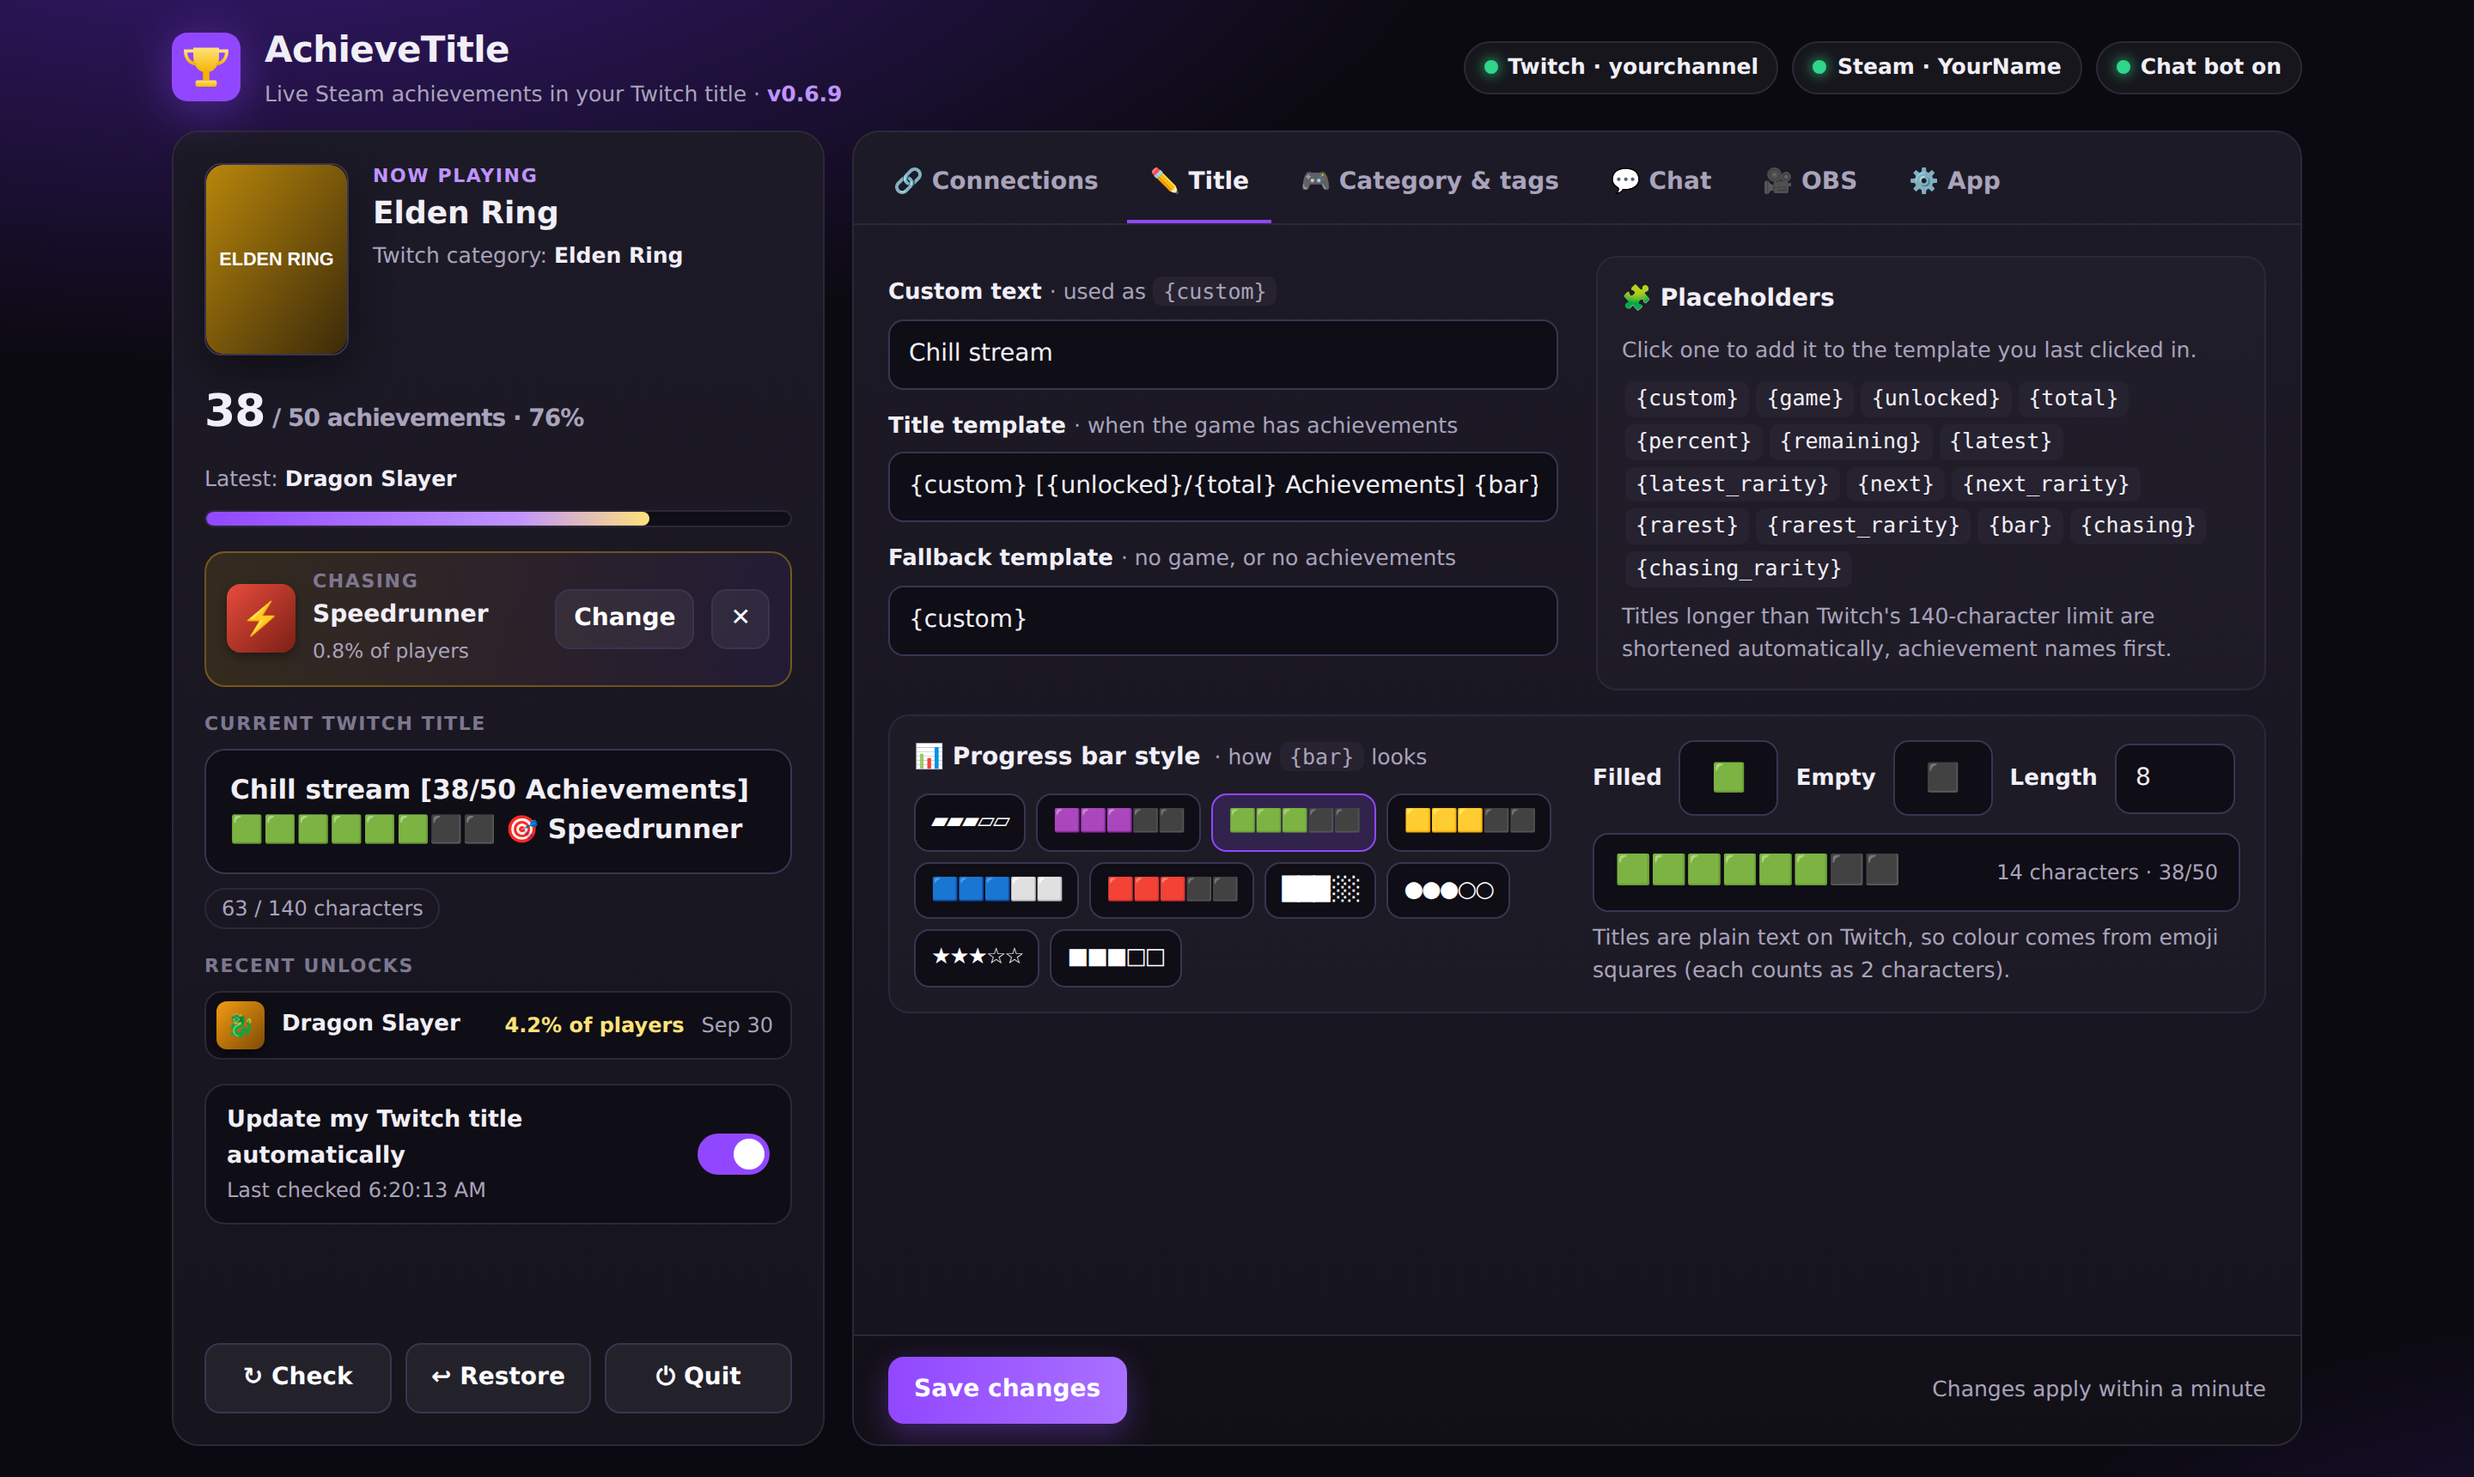
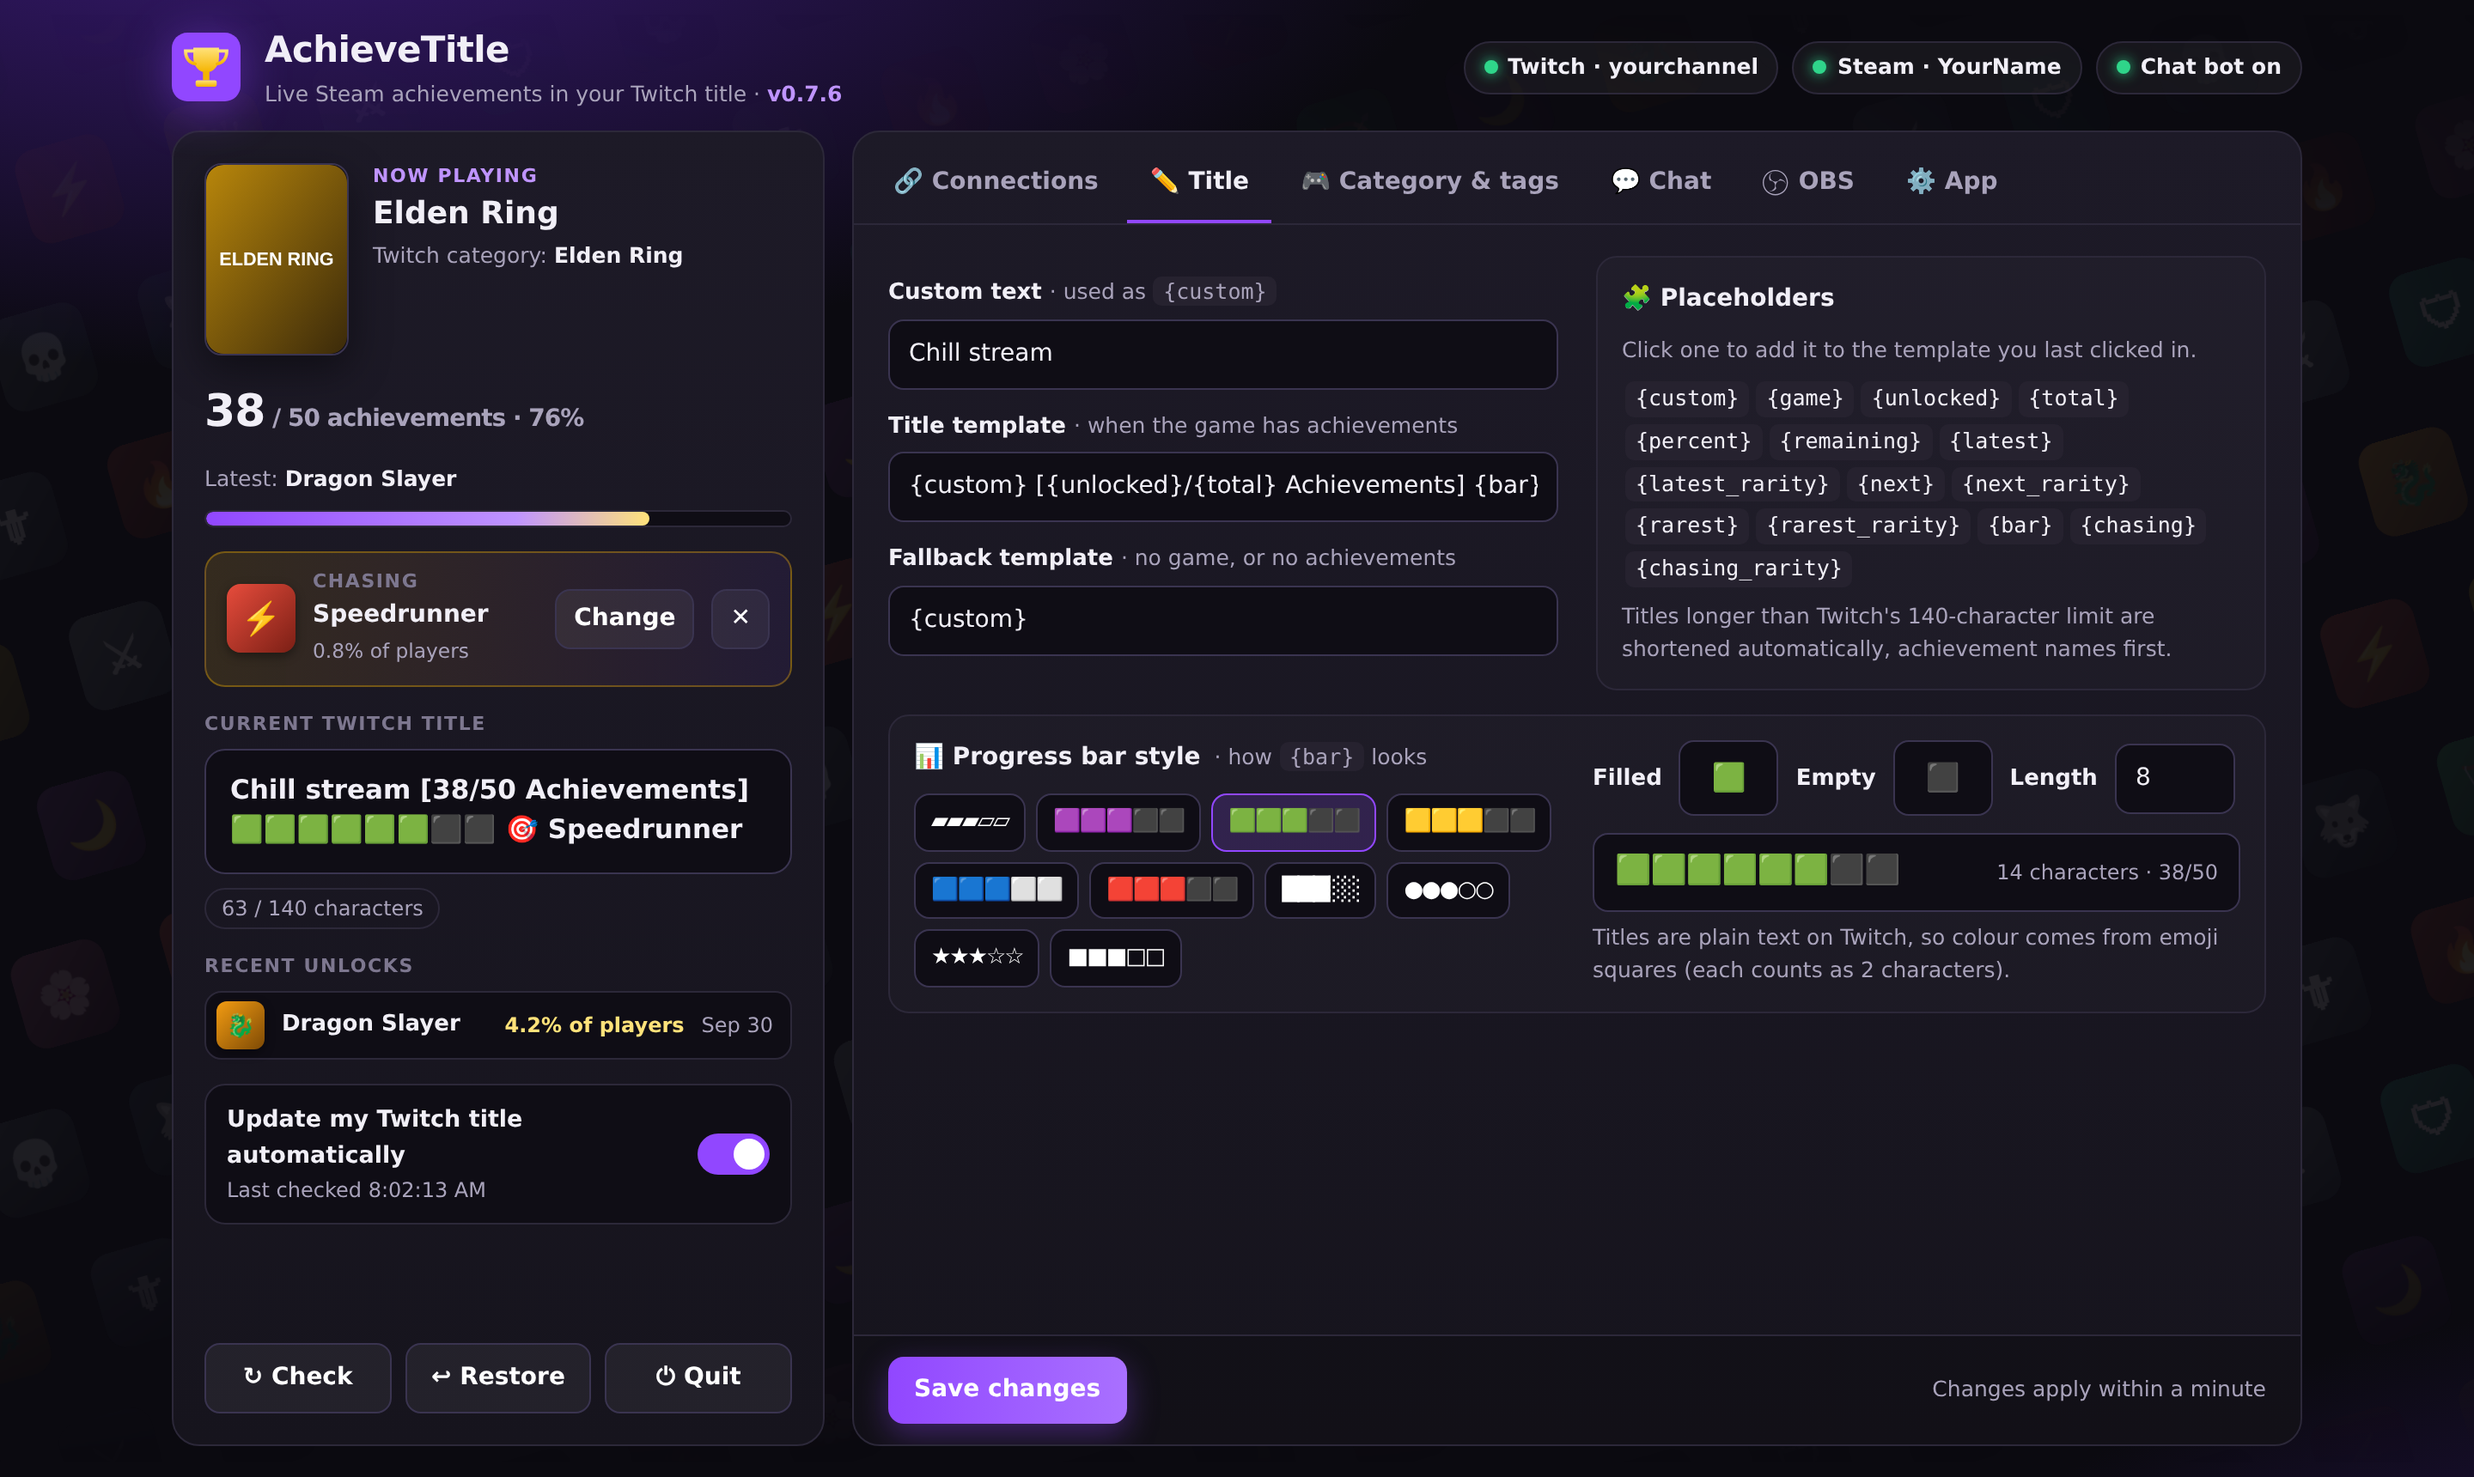
Slower drift, background choice (moving/still/plain), refreshed README screenshots
Claude-Session: https://claude.ai/code/session_018t4shc98Tgre35A8tVfDpp

diff --git a/web/index.html b/web/index.html
@@ -33,6 +33,7 @@
                    font-size:30px; background:rgba(255,255,255,.08); filter:grayscale(.2) }
   @keyframes drift { to { transform:translateX(-50%) } }
   @media (prefers-reduced-motion: reduce) { .drift-row { animation:none } }
+  body.bg-still .drift-row { animation:none } body.bg-off .drift { display:none }
   .app { position:relative; z-index:1 }
   .tab-ico { width:1.05em; height:1.05em; vertical-align:-.15em }
   .app { height:100vh; display:flex; flex-direction:column; max-width:1280px; margin:0 auto; padding:14px 20px 18px; gap:12px }
@@ -525,6 +526,12 @@
               <input type="number" id="interval_seconds" min="30" step="10">
               <label class="check"><input type="checkbox" id="restore_on_exit"> Restore my original title, category and tags when I stop or quit</label>
               <label class="check"><input type="checkbox" id="check_updates"> Tell me when a new version is available</label>
+              <label style="margin-top:10px">Background</label>
+              <div class="seg" id="bgSeg">
+                <button type="button" data-bg="moving">✨ Moving icons</button>
+                <button type="button" data-bg="still">🖼 Still icons</button>
+                <button type="button" data-bg="off">⬛ Plain</button>
+              </div>
             </div>
             <div class="box">
               <h3>🔒 Privacy</h3>
@@ -1015,10 +1022,21 @@ function drawDrift(icons) {
   $('drift').innerHTML = '<div class="drift-in">' + Array.from({length: 20}, (_, r) => {
     // Each row is its tiles twice over, so sliding by half loops seamlessly.
     const tiles = Array.from({length: 40}, (_, i) => tile(i + r * 17)).join('');
-    return `<div class="drift-row" style="--t:${160 + r % 4 * 25}s">${tiles}${tiles}</div>`;
+    return `<div class="drift-row" style="--t:${360 + r % 4 * 60}s">${tiles}${tiles}</div>`;
   }).join('') + '</div>';
 }
 drawDrift([]);
+// Background choice (moving, still or plain), remembered in this browser.
+function setBg(v) {
+  document.body.classList.toggle('bg-still', v === 'still');
+  document.body.classList.toggle('bg-off', v === 'off');
+  document.querySelectorAll('#bgSeg button').forEach(b => b.classList.toggle('sel', b.dataset.bg === v));
+  try { localStorage.setItem('bg', v); } catch (e) {}
+}
+document.querySelectorAll('#bgSeg button').forEach(b => b.onclick = () => setBg(b.dataset.bg));
+let bgPref = 'moving';
+try { bgPref = localStorage.getItem('bg') || 'moving'; } catch (e) {}
+setBg(bgPref);
 // Fetch every achievement's art for the current game (once per game), shuffled.
 let driftApp;
 async function loadDriftIcons(appID) {

diff --git a/CHANGELOG.md b/CHANGELOG.md
@@ -1,5 +1,10 @@
 # Changelog
 
+## v0.7.7
+- The drifting background moves about half as fast
+- New **Background** choice in the App tab: moving icons, still icons, or plain
+- README screenshots updated
+
 ## v0.7.6
 - The drifting achievement icons now fill the whole window evenly (they were bunched on the left), and fade in and out at the top and bottom
 
